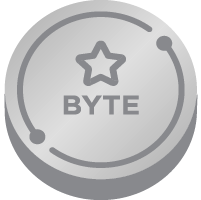
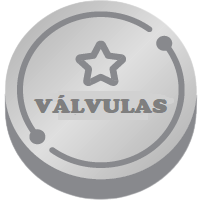
cambios visuales

diff --git a/src/app/Administrador/Inicio/Inicio.component.html b/src/app/Administrador/Inicio/Inicio.component.html
@@ -19,7 +19,7 @@
                     [style]="{'background-color': '#FFF','color': '#000'}"
                     [footerStyle]="{'background-color': '#0B3B59','color': '#fff'}">
                 </kendo-grid-column>
-                <kendo-grid-column field="competencia" [title]="'Competencia'" width="15%"
+                <kendo-grid-column field="competencia" [title]="'Práctica de negocio'" width="15%"
                 class="statusColumn"
                     [headerStyle]="{'color': '#3C404C','line-height': '1em', 'font-weight': 'bold'}"
                     [style]="{'background-color': '#FFF','color': '#000'}"
@@ -48,30 +48,30 @@
                     [headerStyle]="{'color': '#3C404C','line-height': '1em', 'font-weight': 'bold'}"
                     [style]="{'background-color': '#FFF','color': '#000'}"
                     [footerStyle]="{'background-color': '#0B3B59','color': '#fff'}">
-                    <ng-template kendoGridCellTemplate let-dataItem class="text-align:center">              
+                    <ng-template kendoGridCellTemplate let-dataItem class="text-align:center">
                         <div id="button-div">
-                            
+
                             <div *ngIf="!dataItem.activo">
                                 <!-- <button mat-button  class="btn btn-success rounded btn-aprobar"
-                                    
+
                                     (click)="aprobarConcepto(dataItem)"
                                     [disabled]="loading">
                                     <i class="fa fa-check ml-0 mt-0 fa-lg"></i> Aprobar Concepto
                                 </button> -->
 
-                                <button (click)="aprobarConcepto(dataItem)" 
+                                <button (click)="aprobarConcepto(dataItem)"
                                 matTooltip="Aprobar concepto"
                                 [disabled]="loading" mat-mini-fab color="primary" aria-label="Example icon button with a bookmark icon">
                                     <mat-icon>check</mat-icon>
                                 </button>
 
-                                <button (click)="rechazarConcepto(dataItem)" 
+                                <button (click)="rechazarConcepto(dataItem)"
                                 matTooltip="Rechazar concepto"
                                 [disabled]="loading" mat-mini-fab color="warn" aria-label="Example icon button with a bookmark icon">
                                     <mat-icon>close</mat-icon>
                                 </button>
                                 <!-- <button type="button" class="btn btn-danger btn-sm ml-1 mt-1 rounded btn-rechazar"
-                                
+
                                     (click)="rechazarConcepto(dataItem)"
                                     [disabled]="loading">
                                     <i class="fa fa-times ml-0 mt-0 fa-lg"></i> Rechazar
@@ -80,13 +80,13 @@
 
                             <div *ngIf="dataItem.activo">
 
-                                <button (click)="aceptar(dataItem.id, dataItem.id_empleado_envia, dataItem.id_empleado_recibe, dataItem.enviadoPor)" 
+                                <button (click)="aceptar(dataItem.id, dataItem.id_empleado_envia, dataItem.id_empleado_recibe, dataItem.enviadoPor)"
                                 matTooltip="Aprobar aplauso"
                                 [disabled]="loading" mat-mini-fab color="primary" aria-label="Example icon button with a bookmark icon">
                                     <mat-icon>check</mat-icon>
                                 </button>
 
-                                <button (click)="rechazar(dataItem.id, dataItem.id_empleado_envia, dataItem.id_empleado_recibe, dataItem.reconoceA)" 
+                                <button (click)="rechazar(dataItem.id, dataItem.id_empleado_envia, dataItem.id_empleado_recibe, dataItem.reconoceA)"
                                 matTooltip="Rechazar aplauso"
                                 [disabled]="loading" elevation="0" mat-mini-fab color="warn" aria-label="Example icon button with a bookmark icon">
                                     <mat-icon>close</mat-icon>

diff --git a/src/app/MisReconocimientos/MisReconocimientos.component.html b/src/app/MisReconocimientos/MisReconocimientos.component.html
@@ -3,8 +3,8 @@
     <div class="container" style="height: 100%;">
         <div class="row align-items-center" style="height: 100%;">
             <div class="col-md-12">
-                <h1>Mis aplausos</h1>
-                <p class="descripcion m-0">Aquí podrás ver las competencias que han observado en ti.</p>
+                <h1>Mis Reconocimientos</h1>
+                <p class="descripcion m-0">Aquí ver podrás ver los reconocimientos que has recibido</p>
             </div>
         </div>
     </div>
@@ -41,12 +41,11 @@
                         </div>
                         <div *ngIf="competencia_activa == '' && competencias !== undefined && competencias.length > 0"
                             class="col-md-12 text-center">
-                            <div class="alert alert-secondary" role="alert">Selecciona una competencia para ver quiénes
-                                te han reconocido.</div>
+                            <div class="alert alert-secondary" role="alert">Selecciona una práctica de negocio para ver tu aplauso.</div>
                         </div>
                         <div *ngIf="competencias === undefined || competencias.length == 0"
                             class="col-md-12 text-center">
-                            <div class="alert alert-secondary" role="alert">Aún no tienes ningún aplauso
+                            <div class="alert alert-secondary" role="alert">Aún no tienes ningún reconocimiento
                                 recibido.</div>
                         </div>
                     </div>
@@ -107,5 +106,33 @@
             </div>
         </div> -->
     </div>
+    <div class="div">
+      <!-- CONTENT -->
+      <div class="col-md-12 order-1 order-md-0">
+          <div class="row">
+              <div class="col-md-12">
+                  <h1 class="mt-3 mb-3 pb-3">Mis Reconocimientos recibidos</h1>
+              </div>
+              <!-- <div class="col-md-12 text-center mb-2" *ngIf="competencia_activa != ''">
+                  <button type="button" class="btn btn-dark borrar-seleccion" (click)="borrarFiltro()">X Borrar
+                      selección</button>
+              </div> -->
+              <div class="col-md-12 competencias">
+                  <div class="row justify-content-center">
+                      <div class="col" *ngFor="let r of reconocimientos">
+                        <div class="card space-between">
+                          <span class="text-center" id="concepto">{{r.evento}}</span>
+                          <span class="text-justify mt-3">{{r.concepto}}</span>
+                          <span id="number" class="text-center bold mt-2">{{ r.puntos + ' Válvulas' }}</span>
+                          <img src="../../assets/img/bytecoin/currency-byte.png" alt="">
+                        </div>
+
+                      </div>
+                  </div>
+              </div>
+          </div>
+      </div>
+
+  </div>
 </div>
 <ho1a-Loading *ngIf="(competencia_activa != '' && filtroPersonas?.length == 0) || loading"></ho1a-Loading>

diff --git a/src/app/MisReconocimientos/MisReconocimientos.component.ts b/src/app/MisReconocimientos/MisReconocimientos.component.ts
@@ -18,6 +18,7 @@ export class MisReconocimientosComponent implements OnInit {
     puntosAcumulados: number = 0;
     puntosSigNivel: number = 0;
     porcentajeSigNivel: number = 0;
+    reconocimientos: any = [];
     niveles: any[] = [
         { nivel: 1, img: "../assets/img/mis_reconocimientos/Disquette-blanco.png", maxPuntos: 50 },
         { nivel: 2, img: "../assets/img/mis_reconocimientos/USB-blanco.png", maxPuntos: 99 },
@@ -36,14 +37,14 @@ export class MisReconocimientosComponent implements OnInit {
     constructor(
         private reconocimientosService: ReconocimientosService,
         private authService: AuthService
-    ) {     
-        const user = this.authService.getCookieUser();   
-        this.idEmpleadoLogeado = user.Id;    
-        this.puestoEmpleadoLogeado = user.Puesto;  
+    ) {
+        const user = this.authService.getCookieUser();
+        this.idEmpleadoLogeado = user.Id;
+        this.puestoEmpleadoLogeado = user.Puesto;
         this.activo = true;
     }
 
-    ngOnInit() {   
+    ngOnInit() {
         this.reconocimientosService.getMisReconocimientos(this.idEmpleadoLogeado,this.activo,this.puestoEmpleadoLogeado)
             .subscribe(resp=>{
                 this.competencias = resp;
@@ -55,13 +56,14 @@ export class MisReconocimientosComponent implements OnInit {
                         this.loading = false;
                     });
             });
+            this.obtenerReconocimientos();
     }
 
     filtrarDatos(nombreCompetencia){
         this.filtroPersonas = [];
         this.buscado = false;
         this.reconocimientosService.getMisReconocimientosComp(this.idEmpleadoLogeado, nombreCompetencia, this.activo)
-                                    .subscribe(resp=>{ 
+                                    .subscribe(resp=>{
                                         this.filtroPersonas = resp;
                                         this.buscado = true;
                                     });
@@ -71,9 +73,14 @@ export class MisReconocimientosComponent implements OnInit {
         this.competencia_activa = "";
         this.filtroPersonas = this.personas;
     }
+    obtenerReconocimientos() {
+      this.reconocimientosService.getMisPuntosConcepto(this.idEmpleadoLogeado).subscribe(r => {
+        this.reconocimientos = r;
+      });
+    }
     mostrarNiveles(){
         this.niveles.forEach( (el, index) =>{
-            if( (this.niveles[index + 1] && 
+            if( (this.niveles[index + 1] &&
                 this.puntosAcumulados > this.niveles[index].maxPuntos && this.puntosAcumulados <= this.niveles[index + 1].maxPuntos) ||
                 (el.nivel == 1 && el.maxPuntos > this.puntosAcumulados)
             ){

diff --git a/src/app/ReconocerAOtros/EnviarReconocimiento/EnviarReconocimiento.component.html b/src/app/ReconocerAOtros/EnviarReconocimiento/EnviarReconocimiento.component.html
@@ -5,7 +5,7 @@
     <div class="row align-items-center" style="height: 100%;">
       <div class="col-md-12">
         <h1>Reconoce a otros</h1>
-        <p class="descripcion m-0">Aquí podrás reconocer a otros las Competencias de <span>Urrea</span>,
+        <p class="descripcion m-0">Aquí podrás reconocer a otros las Prácticas de negocio de <span>URREA</span>,
           guiándote<br>con los formularios para ser muy objetivos de las conductas a reconocer.</p>
       </div>
     </div>
@@ -79,7 +79,7 @@
         <div *ngIf="puntosDisponibles > 0" class="col-md-12">
           <form [formGroup]="formulario" novalidate>
             <div class="form-group row">
-              <label for="id_empleado_recibe" class="col-md-4 col-form-label"><i class="far fa-user"></i>
+              <label for="id_empleado_recibe" class="col-md-12 col-form-label"><i class="far fa-user"></i>
                 ¿Quién?</label>
               <div class="col-md-12 label-align search">
                 <i class="fas fa-search"></i>
@@ -116,8 +116,8 @@
               </div>
             </div>
             <div class="form-group row">
-              <label for="id_competencia" class="col-md-4 col-form-label"><i class="far fa-star"></i>
-                Competencia</label>
+              <label for="id_competencia" class="col-md-12 col-form-label"><i class="far fa-star"></i>
+                Práctica de negocio</label>
               <div class="col-md-12 label-align competencias-list">
                 <i class="fas fa-sort-down"></i>
                 <select class="form-control" id="id_competencia" formControlName="id_competencia"

diff --git a/src/app/ReconocerAOtros/ReconocerAOtros.component.html b/src/app/ReconocerAOtros/ReconocerAOtros.component.html
@@ -4,7 +4,8 @@
         <div class="row align-items-center" style="height: 100%;">
             <div class="col-md-12">
                 <h1>Aplaudir a otros</h1>
-                <p class="descripcion m-0">Aquí podrás ver las competencias que has observado en otros.</p>
+                <p class="descripcion m-0">Reconoce a otros Colaboradores otorgándoles un aplauso por haber vivido alguna de las
+                  prácticas de negocio de URREA, recuerda ser muy objetivo con el motivo</p>
             </div>
         </div>
     </div>
@@ -45,12 +46,12 @@
                         </div>
                         <div *ngIf="competencia_activa == '' && competencias !== undefined && competencias.length > 0"
                             class="col-md-12 text-center">
-                            <div class="alert alert-secondary" role="alert">Selecciona una competencia para ver quiénes
+                            <div class="alert alert-secondary" role="alert">Selecciona una práctica de negocio para ver a quiénes
                                 has reconocido.</div>
                         </div>
                         <div *ngIf="competencias === undefined || competencias.length == 0"
                             class="col-md-12 text-center">
-                            <div class="alert alert-secondary" role="alert">Aún no has aplaudido a alguien.</div>
+                            <div class="alert alert-secondary" role="alert">Aún no tienes ningún reconocimiento recibido.</div>
                         </div>
                     </div>
                 </div>

diff --git a/src/app/MisReconocimientos/MisReconocimientos.component.scss b/src/app/MisReconocimientos/MisReconocimientos.component.scss
@@ -21,7 +21,7 @@
 }
 .bg-principal{
     &>.row{
-        min-height: calc(100vh - 100px);
+        // min-height: calc(100vh - 100px);
     }
     h1{
         color: #3c404c;
@@ -150,3 +150,49 @@
     //     background-color: #00a4e0;
     // }
 }
+
+
+
+.card{
+  width: 300px;
+  margin-top: 10px;
+  color: white;
+  padding-left: 5px;
+  padding-right: 5px;
+  padding-top: 10px;
+  padding-bottom: 10px;
+  cursor: pointer;
+  // height: 200px;
+  transition: 300ms;
+  background-color: #1E293B;
+  span#concepto{
+      font-size: 17px;
+      font-weight: bold;
+  }
+  img{
+      max-width: 90px;
+      margin: auto;
+  }
+
+  span#text{
+      line-height: 1;
+      font-size: 12px;
+      margin-top: 5px;
+  }
+  &:hover{
+      background-color: #1E293B;
+      transform: scale(1.1);
+  }
+  &.active{
+      background-color: #1E293B;
+  }
+}
+.bold {
+  font-weight: bold;
+}
+/*@media (max-width: 992.5px){
+  .card{
+      width: 130px;
+      margin-top: 10px;
+  }
+}*/

diff --git a/src/app/services/reconocimientos.service.ts b/src/app/services/reconocimientos.service.ts
@@ -76,12 +76,16 @@ export class ReconocimientosService {
 
   getReconocimientoEntregado(pIdEmpleadoLogeado: string, pIdEmpleadorecibe: string, pActivo: Boolean): Observable<any> {
     // console.log("Reconocimientos.service - getReconocimientoEntregado()");
-    this.urlService = `${API}/Reconocimiento/ValidarReconociminetoEntregado?pId_empleado_recibe=` + pIdEmpleadorecibe + 
+    this.urlService = `${API}/Reconocimiento/ValidarReconociminetoEntregado?pId_empleado_recibe=` + pIdEmpleadorecibe +
     `&id_empleado_envia=` + pIdEmpleadoLogeado + `&activo=` + pActivo + ``;
     return this.http.get<any>(this.urlService);
   }
 
   getTopReconocidos() {
     return this.http.get<any>(`${API}/Reconocimiento/ObtenerTopReconocidos`);
+  }
+
+  getMisPuntosConcepto(id_empleado: string): Observable<any> {
+    return this.http.get<any>(`${API}/Reconocimiento/conceptosPuntos?id_empleado_recibe=${id_empleado}`);
   }
 }

diff --git a/src/app/Inicio/Inicio.component.html b/src/app/Inicio/Inicio.component.html
@@ -4,7 +4,7 @@
   <div class="container" style="height: 100%;">
     <div class="row align-items-end" style="height: 100%;">
       <div class="col-md-12 text-right">
-        <h1>¡Viviendo las Competencias de {{company.name}}!</h1>
+        <h1>¡Viviendo los Reconocimientos de {{company.name}}!</h1>
       </div>
     </div>
   </div>
@@ -26,7 +26,7 @@
         <div class="col-md-12">
           <div class="img-c row" href="javascript:void(0);" routerLink="/info">
             <img src="../assets/img/inicio/info.png" class="img-fluid">
-            <span class="titulo mt-3 ml-2">¿Qué es aplauso?</span>
+            <span class="titulo mt-3 ml-2">¿Qué es Reconocimientos?</span>
           </div>
           <div class="img-c row" href="javascript:void(0);" routerLink="/mis-reconocimientos">
             <img src="../assets/img/inicio/Moneda.png" class="img-fluid">

diff --git a/src/app/AdministrarTienda/Productos/Productos.component.html b/src/app/AdministrarTienda/Productos/Productos.component.html
@@ -51,7 +51,7 @@
                     [style]="{'background-color': '#FFF','color': '#000'}"
                     [footerStyle]="{'background-color': '#0B3B59','color': '#fff'}">
                     <ng-template kendoGridCellTemplate let-dataItem>
-                        <img [src]="dataItem.imagen" class="img-fluid" style="max-width: 50px;">
+                        <img [src]="'https://store.transformpoligono.com/' + dataItem.imagen" class="img-fluid" style="max-width: 50px;">
                     </ng-template>
                 </kendo-grid-column>
                 <kendo-grid-column [title]="'Acciones'" [width]="120"

diff --git a/src/app/components/store-product-grid/store-product-grid.component.html b/src/app/components/store-product-grid/store-product-grid.component.html
@@ -1,7 +1,7 @@
 <div class="product-card animatedRec animate__animated">
     <a href="javascript:void(0);" [routerLink]="'/store/producto/'+producto.id">
         <div class="product-img">
-            <img [src]="producto.imagen" onerror="this.src='../../../assets/img/demo/notavailable.png'" class="img-fluid">
+            <img [src]="'https://store.transformpoligono.com/' + producto.imagen" onerror="this.src='../../../assets/img/demo/notavailable.png'" class="img-fluid">
         </div>
         <!-- <h6>{{ producto.nombre }}</h6> -->
         <div class="product-price">

diff --git a/src/app/store/producto/producto.component.html b/src/app/store/producto/producto.component.html
@@ -44,7 +44,7 @@
             </div>
         </div>
         <div class="col-md-6 order-md-1 order-0">
-            <img [src]="producto.imagen" onerror="this.src='../../../assets/img/demo/notavailable.png'" class="img-fluid animatedRec animate__animated">
+            <img [src]="'https://store.transformpoligono.com/' + producto.imagen" onerror="this.src='../../../assets/img/demo/notavailable.png'" class="img-fluid animatedRec animate__animated">
         </div>
         <div class="col-md-12 order-2 mt-5 mt-lg-0">
             <div class="instrucciones-title">

diff --git a/src/app/info/info.component.html b/src/app/info/info.component.html
@@ -1,1 +1,1 @@
-<iframe frameborder="0" class="object-cover" style="width: 100%; height: 90%;" src="https://view.genial.ly/629a6b92ddd1550013091fc3" type="text/html" allowscriptaccess="always" allowfullscreen="true" scrolling="yes" allownetworking="all"></iframe>
+<iframe frameborder="0" class="object-cover" style="width: 100%; height: 90%;" src="https://view.genial.ly/627055f3b92b0b0011f57b4e" type="text/html" allowscriptaccess="always" allowfullscreen="true" scrolling="yes" allownetworking="all"></iframe>
